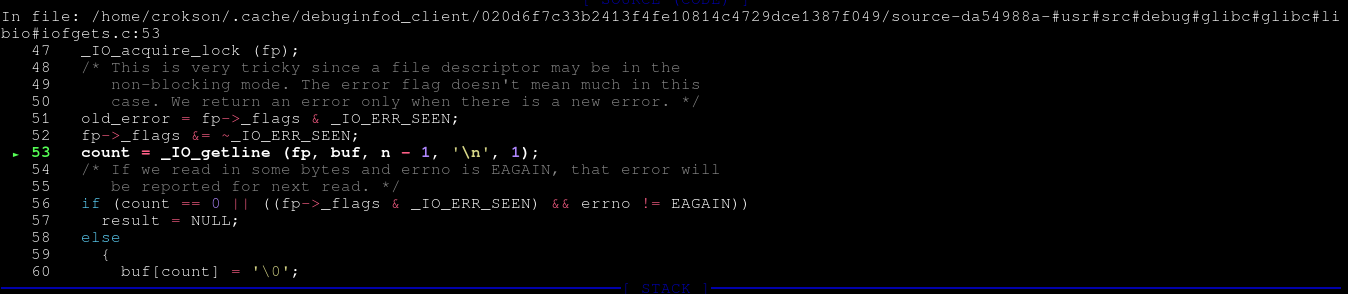
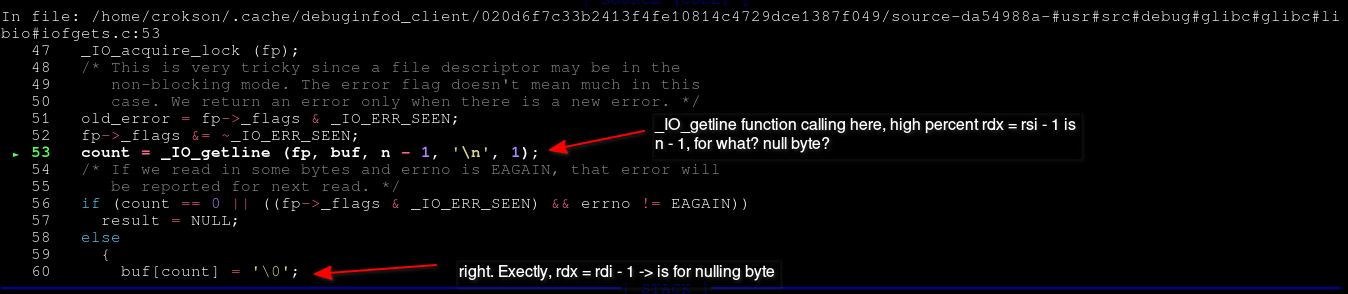
Add files via upload

diff --git a/PwnCollege/Format-strings-vulnerability/WriteUp.md b/PwnCollege/Format-strings-vulnerability/WriteUp.md
@@ -626,6 +626,12 @@ here, `rax and rdi = vaddr pointing to buffer`, `rsi = sizeof(buffer)`, `rdx = f
 
 ![alt text](image34.png)
 
+And this, pwntools have showed the source code C language such as:
+
+![alt text](image35.png)
+
+Yes, `rdx = rsi - 1` is for nulling byte.
+
 We'll until to vaddr `0x7ffff7c81e07` because this is vaddr instrution when fgets start read stdin from keyboard:
 
 > until *0x7ffff7c81e07
